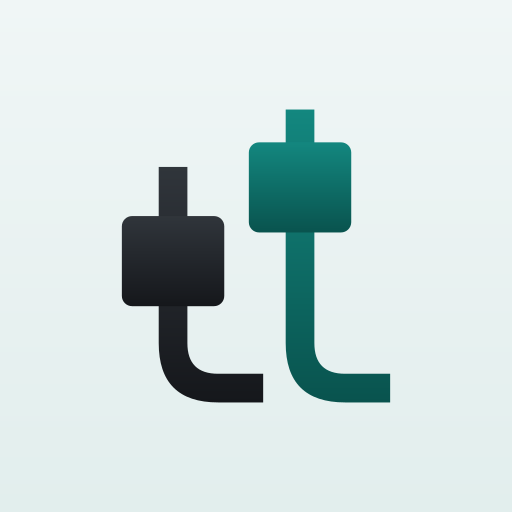
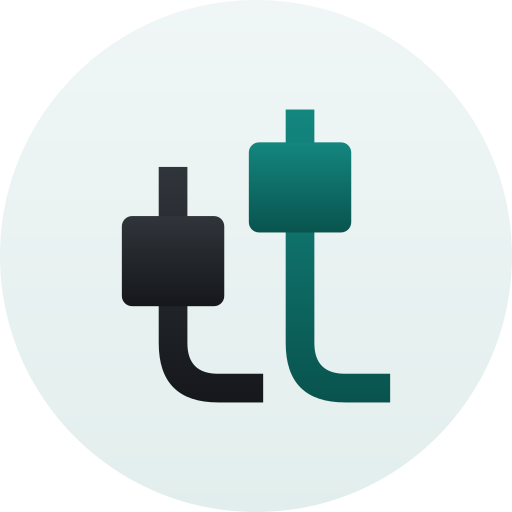
PWA: el icono es un disco petróleo redondo y sube la versión de caché

Changed region(s): [[0.5625, 0.6562, 1.0, 1.0], [0.0, 0.6562, 0.4375, 1.0]]

diff --git a/frontend/src/app/api/i18n/manifest/route.ts b/frontend/src/app/api/i18n/manifest/route.ts
@@ -15,13 +15,13 @@ const application = {
   "theme_color": "#FFFFFF",
   "icons": [
     {
-      "src": "/icon-192.png?v=vennett-9",
+      "src": "/icon-192.png?v=vennett-10",
       "sizes": "192x192",
       "type": "image/png",
       "purpose": "any maskable"
     },
     {
-      "src": "/icon-512.png?v=vennett-9",
+      "src": "/icon-512.png?v=vennett-10",
       "sizes": "512x512",
       "type": "image/png",
       "purpose": "any maskable"
@@ -40,13 +40,13 @@ const rooms = {
   "theme_color": "#0A0A0A",
   "icons": [
     {
-      "src": "/icon-192.png?v=vennett-9",
+      "src": "/icon-192.png?v=vennett-10",
       "sizes": "192x192",
       "type": "image/png",
       "purpose": "any maskable"
     },
     {
-      "src": "/icon-512.png?v=vennett-9",
+      "src": "/icon-512.png?v=vennett-10",
       "sizes": "512x512",
       "type": "image/png",
       "purpose": "any maskable"

diff --git a/frontend/src/app/layout.tsx b/frontend/src/app/layout.tsx
@@ -33,7 +33,7 @@ const baseMetadata: Metadata = {
     icon: [
       { url: "/favicon.svg?v=vennett-8", type: "image/svg+xml" },
       { url: "/favicon.ico?v=vennett-8", sizes: "32x32", type: "image/x-icon" },
-      { url: "/icon-192.png?v=vennett-9", sizes: "192x192", type: "image/png" },
+      { url: "/icon-192.png?v=vennett-10", sizes: "192x192", type: "image/png" },
     ],
     apple: "/apple-touch-icon.png?v=vennett-9",
   },
